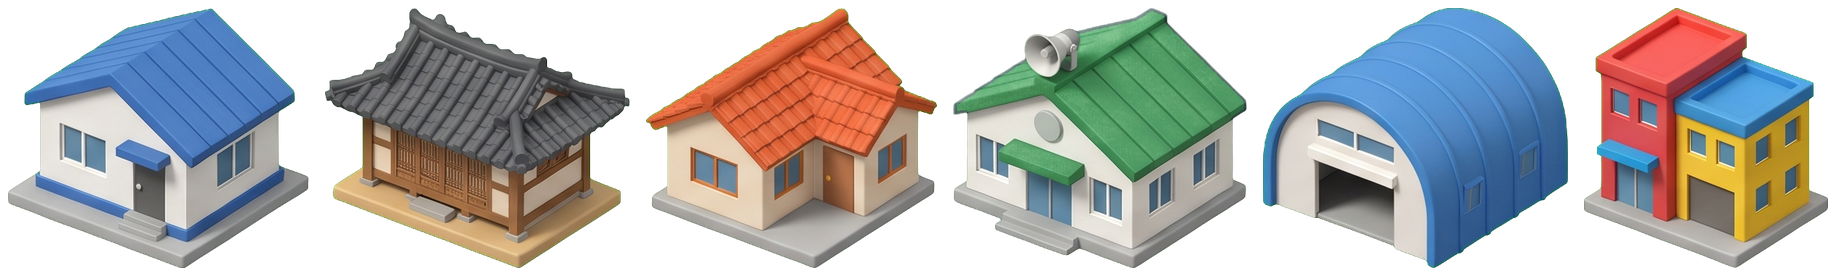
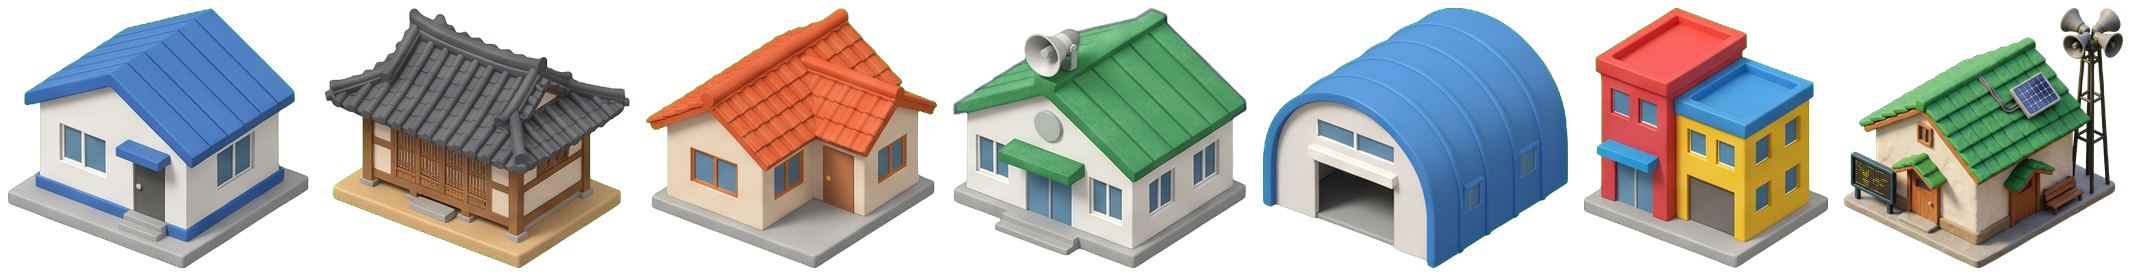
261105
261105

diff --git a/game.js b/game.js
@@ -25,13 +25,15 @@ function effect(id,x,y,size=56){const e=M.effects.effects[id];if(!e)return;const
 let soundOn=false,lastMiss=0;function sfx(id){if(!assets||!soundOn)return;if(id==='miss'){const n=Date.now();if(n-lastMiss<1500)return;lastMiss=n}assets.playSound(id)}
 
 /* ---------- 게임 전용 자산 (assets/) ---------- */
-const BOX={"residents":[[8,8,156,300],[180,8,131,300],[327,8,131,300],[474,8,135,300],[625,8,139,300],[780,8,246,300],[1042,8,144,300],[1202,8,165,300]],"buildings":[[8,8,301,260],[325,8,305,260],[646,8,291,260],[953,8,294,260],[1263,8,305,260],[1584,8,244,260]],"icons":[[12,12,198,200],[236,12,168,200],[460,12,200,126],[12,236,123,200],[236,236,200,137],[460,236,200,165],[12,460,200,170],[236,460,200,186],[460,460,200,123]],"helpers":[[8,8,165,360],[189,8,156,360],[361,8,171,360],[548,8,178,360]]};
-const SZ={"residents":[1375,316],"buildings":[1836,276],"icons":[672,672],"helpers":[734,376]}; // 시트 크기(건물·아이콘은 Higgsfield 실사 그림)
+const BOX={"residents":[[8,8,156,300],[180,8,131,300],[327,8,131,300],[474,8,135,300],[625,8,139,300],[780,8,246,300],[1042,8,144,300],[1202,8,165,300]],"buildings":[[8,8,301,260],[325,8,305,260],[646,8,291,260],[953,8,294,260],[1263,8,305,260],[1584,8,244,260],[1844,8,279,260]],"icons":[[12,12,198,200],[236,12,168,200],[460,12,200,126],[12,236,123,200],[236,236,200,137],[460,236,200,165],[12,460,200,170],[236,460,200,186],[460,460,200,123]],"helpers":[[8,8,165,360],[189,8,156,360],[361,8,171,360],[548,8,178,360]]};
+const SZ={"residents":[1375,316],"buildings":[2131,276],"icons":[672,672],"helpers":[734,376]}; // 시트 크기(건물·아이콘은 Higgsfield 실사 그림)
 const SHEET={helpers:'assets/helpers.png',residents:'assets/residents.png',buildings:'assets/buildings.png',icons:'assets/game-icons.png'};
-const RES={elder:0,vn:1,np:2,deaf:3,phone:4,mine:5,chief:6,merchant:7},BLD={house:0,old:1,mine:2,hall:3,shelter:4,center:5},GIC={multi:0,light:1,chief:2,fast:3,sand:4,buddy:5,bc:6,goods:7,buoy:8};
+const RES={elder:0,vn:1,np:2,deaf:3,phone:4,mine:5,chief:6,merchant:7},BLD={house:0,old:1,mine:2,hall:3,shelter:4,center:5},GIC={multi:0,light:1,chief:2,fast:3,sand:4,buddy:5,bc:6,goods:7,buoy:8,hall:6};
 function artSvg(sheet,i,x,y,w,h,cls=''){const b=BOX[sheet][i];return `<svg class="${cls}" x="${x}" y="${y}" width="${w}" height="${h}" viewBox="${b.join(' ')}" preserveAspectRatio="xMidYMax meet"><svg x="${b[0]}" y="${b[1]}" width="${b[2]}" height="${b[3]}" viewBox="${b.join(' ')}"><image href="${SHEET[sheet]}" width="${SZ[sheet][0]}" height="${SZ[sheet][1]}"/></svg></svg>`}
 function art(sheet,i,cls='gs-art'){const b=BOX[sheet][i];return `<svg class="${cls}" viewBox="${b.join(' ')}" preserveAspectRatio="xMidYMid meet" aria-hidden="true"><svg x="${b[0]}" y="${b[1]}" width="${b[2]}" height="${b[3]}" viewBox="${b.join(' ')}"><image href="${SHEET[sheet]}" width="${SZ[sheet][0]}" height="${SZ[sheet][1]}"/></svg></svg>`}
 function pill(x,y,txt,fs=12,anchor='middle',bg='#1f2b26',op=.74){const w=Math.round([...String(txt)].length*fs*.95+fs*.9),x0=anchor==='middle'?x-w/2:anchor==='end'?x-w:x;return `<g class="pill"><rect x="${x0}" y="${y-fs*.85}" width="${w}" height="${fs*1.55}" rx="${fs*.78}" fill="${bg}" opacity="${op}"/><text x="${x0+w/2}" y="${y+fs*.32}" text-anchor="middle" font-size="${fs}" fill="#fff">${txt}</text></g>`}
+const HCOL={saebom:'#2463b5',daon:'#d36b12'};
+function tagCol(h){return h.t==='deaf'?HCOL.saebom:h.lang==='VN'?HCOL.daon:'#1f2b26'}
 function tagOf(h){return (h.lang?(h.lang==='VN'?'베트남인':'네팔인'):'')||(h.t==='deaf'?'수어 필요':h.t==='elder'?'어르신':'')}
 function resOf(h){return h.t==='foreign'?(h.lang==='NP'?RES.np:RES.vn):RES[h.t]}
 function bldOf(h){return h.t==='mine'?BLD.mine:h.t==='elder'?BLD.old:BLD.house}
@@ -44,7 +46,7 @@ const BASE_HOUSES=[
  {id:'h1',x:170,y:165,t:'phone'},{id:'h2',x:300,y:135,t:'elder'},{id:'h3',x:430,y:175,t:'phone'},{id:'h4',x:565,y:145,t:'foreign',lang:'VN'},{id:'h5',x:700,y:170,t:'deaf'},{id:'h6',x:835,y:150,t:'phone'},
  {id:'h7',x:215,y:300,t:'elder'},{id:'h8',x:370,y:305,t:'mine'},{id:'h9',x:525,y:290,t:'phone'},{id:'h10',x:665,y:315,t:'foreign',lang:'VN'},{id:'h11',x:815,y:290,t:'elder'},{id:'h12',x:290,y:440,t:'phone'}];
 const EXTRA_HOUSES=[{id:'h13',x:110,y:250,t:'elder'},{id:'h14',x:745,y:235,t:'foreign',lang:'NP'}];
-const BASE={x:520,y:520},SHELTER={x:905,y:520},HALL={x:110,y:450,r:240};
+const BASE={x:520,y:520},SHELTER={x:905,y:520},HALL={x:110,y:450,get r(){return G&&G.owned&&G.owned.includes('hall')?360:240}};
 const HELPERS={me:{id:'jiho',name:'나',skill:'우리 집 열쇠',tag:'짐 옮기기 가능'},saebom:{id:'saebom',name:'새봄',skill:'수어 가능',tag:'청각장애인 집 빠름'},daon:{id:'daon',name:'다온',skill:'베트남어 가능',tag:'베트남어 집 빠름'}};
 const ROUNDS=[
  {n:1,title:'첫 폭우',rain:80,T:58,maxY:360,houses:'base',helpers:true,bc:1,intro:'AI 홍수 경보 시스템이 처음 가동됐어요. 그런데 경보는 스마트폰이 있고 한국어를 쓰는 주민에게만 가요.'},
@@ -56,6 +58,7 @@ const UPGRADES=[
  {id:'chief',name:'이장 전화 연락망',desc:'어르신 집에 3초 뒤 전화 경보',cost:1},
  {id:'fast',name:'AI 예측 고도화',desc:'경보가 4초 빨라짐 (이미 받는 사람만)',cost:2},
  {id:'sand',name:'우리 집 모래주머니',desc:'우리 집 짐은 자동으로 지켜짐',cost:1},
+ {id:'hall',name:'마을회관 방송 확장',desc:'방송이 더 멀리, 라운드마다 2번 (못 듣는 사람은 그대로)',cost:1},
  {id:'buddy',name:'이웃 짝꿍 제도',desc:'어르신마다 이웃 짝꿍이 직접 알림 (회의 2부터)',cost:1,late:true}];
 const VOICES1=[[RES.elder,'전화로 한 번만 알려 주면 바로 나가지.'],[RES.vn,'한국어 문자는 무슨 말인지 몰라요.'],[RES.deaf,'소리는 못 들어요. 불빛이면 돼요.'],[RES.merchant,'상인회: AI를 더 좋게 하면 모두 빨라지잖아요!']];
 const VOICES2=[[RES.elder,'전화가 와도 혼자 나가기 무서워.'],[RES.np,'네팔어 쓰는 친구도 이사 왔어요.'],['saebom','봉사단: 우리 내년엔 졸업이야. 우리 없이도 될까?']];
@@ -80,7 +83,7 @@ function drawMap(){const m=$('map');m.innerHTML=`
  <image href="assets/map-toy.jpg" x="-5" y="-107" width="1290" height="826" preserveAspectRatio="none"/>
  
  <g id="world" transform="translate(40,0) scale(1.2)">
- <g id="hall"><circle cx="${HALL.x}" cy="${HALL.y}" r="${HALL.r}" fill="#f3cf7214" stroke="#f3cf7288" stroke-dasharray="8 8"/>${artSvg('buildings',BLD.hall,HALL.x-46,HALL.y-62,92,88)}${pill(HALL.x,HALL.y+42,'마을회관',12)}</g>
+ <g id="hall"><circle cx="${HALL.x}" cy="${HALL.y}" r="${HALL.r}" fill="#f3cf7214" stroke="#f3cf7288" stroke-dasharray="8 8"/>${G&&G.owned.includes('hall')?artSvg('buildings',6,HALL.x-60,HALL.y-84,120,108):artSvg('buildings',BLD.hall,HALL.x-46,HALL.y-62,92,88)}${pill(HALL.x,HALL.y+42,'마을회관',12)}</g>
  <g>${artSvg('buildings',BLD.shelter,SHELTER.x-62,SHELTER.y-78,124,104)}${pill(SHELTER.x,SHELTER.y+40,'대피소',12)}<text id="shelterCount" x="${SHELTER.x}" y="${SHELTER.y-50}" text-anchor="middle" font-size="16" font-weight="700" fill="#294b40" stroke="#fff9e7" stroke-width="4" paint-order="stroke"></text></g>
  <g>${artSvg('buildings',BLD.center,BASE.x-120,BASE.y-70,70,72)}${pill(BASE.x-85,BASE.y+16,'청소년센터',12)}</g>
  <rect id="flood" x="-34" y="0" width="1068" height="78" fill="#8a7b62" opacity=".72"/>
@@ -95,15 +98,15 @@ function drawHouses(){$('houses').innerHTML=R.houses.map(h=>`<g class="house" id
  <rect class="base" x="-46" y="-50" width="92" height="80" fill="transparent"/>
  ${artSvg('buildings',bldOf(h),-46,-58,92,82,'bimg')}
  ${`<g class="rimg" ><ellipse cx="40" cy="23" rx="11" ry="3.2" fill="#000" opacity=".35"/>${artSvg('residents',resOf(h),24,-32,34,55)}</g>`}
- ${tagOf(h)?pill(41,-41,tagOf(h),11):''}
+ ${tagOf(h)?pill(41,-41,tagOf(h),11,'middle',tagCol(h),h.t==='deaf'||h.lang==='VN'?.95:.74):''}
  <g class="status" transform="translate(0,33)"></g>
  ${h.t==='mine'?`<g class="goods">${artSvg('icons',GIC.goods,-64,-20,30,30)}</g>`:''}
  </g>`).join('')}
 function setStatus(h,txt,color='#294b40',buoy=false){const g=document.querySelector(`#g-${h.id} .status`);if(!txt){g.innerHTML='';return}const fill={'#5a8c65':'#2f6b45','#bf7865':'#b23f2c','#9a7417':'#8a6512','#6b7075':'#4a4f54'}[color]||color,fs=12,w=Math.round([...txt].length*fs*.95+fs*1.1+(buoy?16:0)),x0=-w/2;g.innerHTML=`<rect x="${x0}" y="-10" width="${w}" height="19" rx="9.5" fill="${fill}" opacity=".9"/>`+(buoy?artSvg('icons',GIC.buoy,x0+3,-8,15,15):'')+`<text x="${buoy?8:0}" y="4" text-anchor="middle" font-size="${fs}" fill="#fff">${txt}</text>`}
 function floatTxt(x,y,txt,color='#5a8c65'){const g=document.createElementNS(NS,'text');g.setAttribute('x',x);g.setAttribute('y',y);g.setAttribute('text-anchor','middle');g.setAttribute('font-size','18');g.setAttribute('font-weight','700');g.setAttribute('fill',color);g.setAttribute('stroke','#fff9e7');g.setAttribute('stroke-width','4');g.setAttribute('paint-order','stroke');g.classList.add('float');g.textContent=txt;$('fx').appendChild(g);setTimeout(()=>g.remove(),1300)}
-function drawHelpers(){$('helpersG').innerHTML=Object.entries(R.helpers).map(([k,hp])=>`<g class="helper" id="hp-${k}" data-helper="${k}" transform="translate(${hp.x},${hp.y})"><ellipse cx="0" cy="0" rx="11" ry="3.4" fill="#000" opacity=".35"/><g class="body" >${walkSvg(helperChar(k),0,0,.62,'down',1)}</g>${pill(0,14,k==='me'?M.characters[helperChar(k)].name+'(나)':HELPERS[k].name,11,'middle','#294b40',.82)}<g class="hstat" transform="translate(0,-86)"></g></g>`).join('')}
+function drawHelpers(){if(G&&!ROUNDS[G.round].helpers){$('helpersG').innerHTML='';return}$('helpersG').innerHTML=Object.entries(R.helpers).map(([k,hp])=>`<g class="helper" id="hp-${k}" data-helper="${k}" transform="translate(${hp.x},${hp.y})"><ellipse cx="0" cy="0" rx="11" ry="3.4" fill="#000" opacity=".35"/><g class="body" >${walkSvg(helperChar(k),0,0,.62,'down',1)}</g>${pill(0,14,k==='me'?M.characters[helperChar(k)].name+'(나)':HELPERS[k].name,11,'middle',HCOL[k]||'#294b40',.9)}<g class="hstat" transform="translate(0,-86)"></g></g>`).join('')}
 function setWalk(k,dir,frame){const el=document.querySelector(`#hp-${k} .spr`);if(!el)return;if(el.dataset.real){const r=realFlip(el.dataset.real,dir,frame,+el.dataset.f);el.dataset.f=r.f;el.firstElementChild.setAttribute('transform',r.t);return}const c=M.characters[helperChar(k)],row=c.directions.indexOf(dir);el.setAttribute('viewBox',`${frame*96} ${row*128} 96 128`)}
-function renderDock(){const r=ROUNDS[G.round];$('dock').innerHTML=Object.entries(HELPERS).map(([k,h])=>{const hp=R.helpers[k],cid=helperChar(k),nm=k==='me'?M.characters[cid].name+'(나)':h.name;const st=!r.helpers?'졸업했어요':hp.task?hp.task.label:'대기 중 · 끌어서 보내기';return `<button class="hcard ${!r.helpers?'off':hp.task?'busy':''}" aria-pressed="${sel===k}" data-hcard="${k}" aria-label="${nm}, ${h.skill}, ${st}">${portrait(cid,hp.task?'explaining':'neutral')}<span><b>${nm}</b><small>${h.skill} · ${h.tag}</small><span class="st">${st}</span></span></button>`}).join('')+`<button class="ee-button bc" id="bcBtn" ${R.bcLeft<1||R.t<R.alertT||!r?'disabled':''}>${art('icons',GIC.bc,'gs-art" style="width:34px;height:30px')}마을방송<small>${R.bcLeft}회 · 회관 근처</small></button>`;
+function renderDock(){const r=ROUNDS[G.round];$('dock').innerHTML=Object.entries(HELPERS).map(([k,h])=>{const hp=R.helpers[k],cid=helperChar(k),nm=k==='me'?M.characters[cid].name+'(나)':h.name;const st=!r.helpers?'졸업했어요':hp.task?hp.task.label:'대기 중 · 끌어서 보내기';return `<button class="hcard ${!r.helpers?'off':hp.task?'busy':''}"${HCOL[k]?` style="border-color:${HCOL[k]}"`:''} aria-pressed="${sel===k}" data-hcard="${k}" aria-label="${nm}, ${h.skill}, ${st}">${portrait(cid,hp.task?'explaining':'neutral')}<span><b>${nm}</b><small${HCOL[k]?` style="color:${HCOL[k]};font-weight:700"`:''}>${h.skill} · ${h.tag}</small><span class="st">${st}</span></span></button>`}).join('')+`<button class="ee-button bc" id="bcBtn" ${R.bcLeft<1||R.t<R.alertT||!r?'disabled':''}>${art('icons',GIC.bc,'gs-art" style="width:34px;height:30px')}마을방송<small>${R.bcLeft}회 · 회관 근처</small></button>`;
  document.querySelectorAll('[data-hcard]').forEach(bindHelperDrag);$('bcBtn').onclick=broadcast}
 function hudIcons(){$('safePill').innerHTML=`${icon('person',18)}<span id="safeTxt">대피 0/0</span>`;$('helpBtn').innerHTML=icon('help',24);setSoundBtn()}
 function setSoundBtn(){$('soundBtn').innerHTML=icon(soundOn?'volume':'music',24);$('soundBtn').setAttribute('aria-pressed',soundOn);$('soundBtn').setAttribute('aria-label',soundOn?'소리 끄기':'소리 켜기(배경음악·효과음)')}
@@ -115,7 +118,7 @@ function bgmTick(){if(!actx)return;if(actx.state==='suspended'&&soundOn)actx.res
  const s=actx.createBufferSource(),g=actx.createGain();s.buffer=bgmBuf[want];s.loop=true;g.gain.value=0;g.gain.setTargetAtTime(want==='rain'?.3:.24,t,.5);s.connect(g).connect(actx.destination);s.start();bgmNode={s,g}}
 
 /* ---------- 라운드 ---------- */
-function startRound(){const r=ROUNDS[G.round];R={...r,t:0,houses:houseList(r),helpers:{},bcLeft:r.bc,alertT:G.owned.includes('fast')?1:5,events:[],goodsSaved:0,dots:[],evacuated:0,rescueT:r.T-8,rescued:false,rsec:-1};
+function startRound(){const r=ROUNDS[G.round];R={...r,t:0,houses:houseList(r),helpers:{},bcLeft:r.bc+(G.owned.includes('hall')?1:0),alertT:G.owned.includes('fast')?1:5,events:[],goodsSaved:0,dots:[],evacuated:0,rescueT:r.T-8,rescued:false,rsec:-1};
  for(const h of R.houses){h.warned=null;h.flooded=false;h.safe=false;h.ft=floodTime(h.y)}
  Object.keys(HELPERS).forEach((k,i)=>R.helpers[k]={x:BASE.x-50+i*50,y:BASE.y-20,task:null,dir:'down'});
  drawMap();drawHouses();drawHelpers();renderDock();updateHud();
@@ -128,14 +131,14 @@ function countdown(done){const el=document.createElement('div');el.className='gs
 function updateGoods(){$('goodsPill').innerHTML=`${art('icons',GIC.goods,'gs-art" style="width:20px;height:18px')}<span>짐 ${G.goods}</span>`}
 const REMOTE=['방송','이장'];
 function warn(h,via){if(h.warned!=null||h.flooded)return;h.warned=R.t;h.via=via;document.getElementById('g-'+h.id).classList.add('lit');
- if(G.round>=1&&h.t==='elder'&&REMOTE.includes(via)){h.hesitate=true;setStatus(h,'망설임…','#bf7865');floatTxt(h.x,h.y-96,'혼자는 무서워','#bf7865');if(!R.hesToast){R.hesToast=true;logIt('돌발: 망설이는 어르신');setTimeout(()=>{if(!paused)toast('돌발 상황! 어르신이 혼자 나가기 무서워 망설여요. 누군가 직접 가야 해요.',3600)},400)}}
+ if(G.round>=1&&h.t==='elder'&&REMOTE.includes(via)){h.hesitate=true;setStatus(h,'망설임…','#bf7865');floatTxt(h.x,h.y-96,'혼자는 무서워','#bf7865');if(!R.hesToast){R.hesToast=true;logIt('돌발: 망설이는 어르신');setTimeout(()=>{if(!paused)toast(ROUNDS[G.round].helpers?'돌발 상황! 어르신이 혼자 나가기 무서워 망설여요. 누군가 직접 가야 해요.':'어르신이 혼자 나가기 무서워 망설여요. 이번엔 직접 갈 봉사단이 없어요…',3600)},400)}}
  else{setStatus(h,'준비 중','#9a7417');h.leaveAt=R.t+TYPES[h.t].prep}
  if(G.owned.includes('buddy')&&h.t==='phone'){const e=R.houses.filter(o=>o.t==='elder'&&!o.buddy&&(o.warned==null||o.hesitate)&&Math.hypot(o.x-h.x,o.y-h.y)<220).sort((a,b)=>Math.hypot(a.x-h.x,a.y-h.y)-Math.hypot(b.x-h.x,b.y-h.y))[0];if(e){e.buddy=true;R.events.push({at:R.t+2,fn:()=>{visit(e,'짝꿍');floatTxt(e.x,e.y-70,'짝꿍')}})}}}
 function visit(h,by){if(h.flooded||h.safe)return;if(h.hesitate){h.hesitate=false;h.leaveAt=R.t+1;h.via=by;setStatus(h,'함께 출발','#5a8c65')}else warn(h,by)}
 function systemAlerts(){for(const h of R.houses){if(h.t==='phone'||h.t==='mine')warn(h,'AI');if(h.t==='foreign'&&G.owned.includes('multi'))warn(h,'다국어');if(h.t==='deaf'&&G.owned.includes('light'))warn(h,'불빛')}
  if(G.owned.includes('chief'))R.events.push({at:R.t+3,fn:()=>R.houses.filter(h=>h.t==='elder').forEach(h=>{if(h.warned==null&&!h.flooded){warn(h,'이장');floatTxt(h.x,h.y-70,'전화')}})});
  for(const h of R.houses)if(h.warned!=null)floatTxt(h.x,h.y-70,'경보!');sfx('collect');for(const h of R.houses)if(h.warned==null&&h.t!=='mine')setStatus(h,'경보 못 받음','#6b7075');
- const left=R.houses.filter(h=>h.warned==null);toast(`AI 경보 발송! 받지 못한 집 ${left.length}곳 · 회색 '경보 못 받음' 집으로 봉사단을 보내요`,3600);renderDock()}
+ const left=R.houses.filter(h=>h.warned==null);toast(ROUNDS[G.round].helpers?`AI 경보 발송! 받지 못한 집 ${left.length}곳 · 회색 '경보 못 받음' 집으로 봉사단을 보내요`:`AI 경보 발송! 받지 못한 집 ${left.length}곳 · 봉사단 없이 시스템만으로 닿을까요? 지켜봐요`,3600);renderDock()}
 function broadcast(){if(paused||R.bcLeft<1||R.t<R.alertT)return;R.bcLeft--;logIt('마을방송');sfx('tap');effect('clue',HALL.x,HALL.y-70,64);const ring=document.createElementNS(NS,'circle');ring.setAttribute('cx',HALL.x);ring.setAttribute('cy',HALL.y);ring.setAttribute('r',10);ring.setAttribute('fill','none');ring.setAttribute('stroke','#f3cf72');ring.setAttribute('stroke-width','6');$('fx').appendChild(ring);let rr=10;const iv=setInterval(()=>{rr+=reduced?HALL.r:12;ring.setAttribute('r',rr);ring.setAttribute('opacity',Math.max(0,1-rr/HALL.r));if(rr>=HALL.r){clearInterval(iv);ring.remove()}},16);
  for(const h of R.houses){if(Math.hypot(h.x-HALL.x,h.y-HALL.y)>HALL.r||h.warned!=null)continue;if(h.t==='deaf'){floatTxt(h.x,h.y-70,'못 들음','#bf7865');continue}if(h.t==='foreign'&&!G.owned.includes('multi')){floatTxt(h.x,h.y-70,'무슨 말?','#bf7865');continue}warn(h,'방송');floatTxt(h.x,h.y-70,'방송')}renderDock()}
 function sendHelper(k,houseId){const hp=R.helpers[k],h=R.houses.find(x=>x.id===houseId);if(!h||hp.task||!ROUNDS[G.round].helpers)return;
@@ -175,24 +178,43 @@ function stepHelpers(){for(const [k,hp] of Object.entries(R.helpers)){const tk=h
   if(tk.house.flooded&&tk.mode==='warn'){hp.task=null;el.querySelector('.hstat').innerHTML='';effect('retry',tk.house.x,tk.house.y-30);toast('물이 먼저 들어왔어요…');setWalk(k,'down',1);renderDock();continue}
   if(p>=1){el.querySelector('.hstat').innerHTML='';const h=tk.house;if(tk.mode==='goods'){h.goodsDone=true;G.goods++;R.goodsSaved++;updateGoods();floatTxt(h.x,h.y-70,'짐 지킴!','#9a7417');document.querySelector(`#g-${h.id} .goods`)?.remove();sfx('paper')}else{const was=h.hesitate;visit(h,HELPERS[k].name);effect('correct',h.x,h.y-40);floatTxt(h.x,h.y-80,was?'같이 가요!':tk.work<=1?'통했다!':'전달!');sfx('collect')}hp.task=null;setWalk(k,'down',1);renderDock()}}
  el.setAttribute('transform',`translate(${hp.x},${hp.y})`)}}
-function stepHouses(){const wy=waterY(R.t);$('flood').setAttribute('height',wy);$('floodEdge').setAttribute('y',wy-6);
- for(const h of R.houses){const dz=!h.safe&&!h.flooded&&h.t!=='mine'&&(h.leaveAt==null||h.leaveAt>h.ft)&&h.ft-R.t<10&&h.ft-R.t>0;if(dz!==!!h.dz){h.dz=dz;document.getElementById('g-'+h.id).classList.toggle('danger',dz);if(dz&&!G.dangerTip){G.dangerTip=true;toast('빨간 점선이 깜빡이는 집은 곧 물이 닿아요! 서둘러요.',3000)}}
+function stepHouses(){const wy=waterY(fc());$('flood').setAttribute('height',wy);$('floodEdge').setAttribute('y',wy-6);
+ for(const h of R.houses){const dz=!h.safe&&!h.flooded&&h.t!=='mine'&&(h.leaveAt==null||h.leaveAt-(R.hold||0)>h.ft)&&h.ft-fc()<10&&h.ft-fc()>0;if(dz!==!!h.dz){h.dz=dz;document.getElementById('g-'+h.id).classList.toggle('danger',dz);if(dz&&!G.dangerTip){G.dangerTip=true;toast(ROUNDS[G.round].helpers?'빨간 점선이 깜빡이는 집은 곧 물이 닿아요! 서둘러요.':'빨간 점선이 깜빡이는 집은 곧 물이 닿아요.',3000)}}
   if(h.safe||h.flooded)continue;if(h.leaveAt!=null&&R.t>=h.leaveAt){h.safe=true;setStatus(h,'대피 ✓','#5a8c65');document.getElementById('g-'+h.id).classList.add('left');R.dots.push({x:h.x+40,y:h.y,r:routeTo(h.x+40,h.y,SHELTER.x,SHELTER.y),t0:R.t,dur:Math.hypot(SHELTER.x-h.x,SHELTER.y-h.y)/(h.t==='elder'?110:170),res:resOf(h)});continue}
   if(wy>=h.y-12){h.flooded=true;h.dz=false;document.getElementById('g-'+h.id).classList.remove('danger');setStatus(h,'구조 대기','#bf7865',true);document.getElementById('g-'+h.id).classList.add('flooded');sfx('miss');if(h.t==='mine'&&!h.goodsDone&&!h.sand)floatTxt(h.x,h.y-70,'짐 잠김','#bf7865')}}
  if(R.t>=R.alertT&&!R.alerted){R.alerted=true;systemAlerts()}
- if(R.t>=R.rescueT&&!R.rescued)rescueArrive();
+ if(fc()>=R.rescueT&&!R.rescued)rescueArrive();
+ if(R.alerted&&G.round===0&&!G.tutDone&&!R.tut&&!R.tutStarted){R.tutStarted=true;startTutorial()}
  $('dots').innerHTML=R.dots.map(d=>{const p=Math.min(1,(R.t-d.t0)/d.dur);if(p>=1){if(!d.arr){d.arr=true;R.evacuated++}return ''}const {x,y}=along(d.r,p),bob=reduced?0:Math.abs(Math.sin(R.t*10))*3;return `<g ><ellipse cx="${x}" cy="${y}" rx="9" ry="2.8" fill="#000" opacity=".3"/>${artSvg('residents',d.res,x-12,y-44-bob,24,44)}</g>`}).join('');
  $('shelterCount').textContent=R.evacuated?`${R.evacuated}명 도착`:''}
-function rescueHud(){const g=$('rescue119');if(!g||R.rescueT==null)return;const left=Math.max(0,Math.ceil(R.rescueT-R.t)),key=R.rescued?-2:left;if(key===R.rsec)return;R.rsec=key;
+function rescueHud(){const g=$('rescue119');if(!g||R.rescueT==null)return;const left=Math.max(0,Math.ceil(R.rescueT-fc())),key=R.rescued?-2:left;if(key===R.rsec)return;R.rsec=key;
  g.innerHTML=R.t<R.alertT?'':pill(1262,700,R.rescued?'🚒 119 구조대 도착 · 구조 대기 주민 구조 중':`🚒 119 구조대 · 읍내 12km${R.slow?' · 길 잠김':''} · 도착까지 ${left}초`,14,'end',R.rescued?'#2b5f8a':'#7a2d22',.9)}
 function rescueArrive(){if(R.rescued)return;R.rescued=true;const fl=R.houses.filter(h=>h.flooded&&h.t!=='mine');fl.forEach(h=>setStatus(h,'119 구조','#2b5f8a',true));logIt('119 구조대 도착');toast(fl.length?`🚒 119 구조대 도착! 구조 대기 주민 ${fl.length}명을 보트로 구해요. 그동안 물속에서 기다렸어요.`:'🚒 119 구조대 도착! 다행히 기다리는 주민이 없어요.',3600);rescueHud()}
-function updateHud(){rescueHud();const p=Math.max(0,1-R.t/R.T);$('timerBar').style.width=(p*100)+'%';$('timerWrap').setAttribute('aria-valuenow',Math.round(p*100));$('timerWrap').classList.toggle('low',p<.25);const total=R.houses.filter(h=>h.t!=='mine').length,safe=R.houses.filter(h=>h.t!=='mine'&&h.safe).length;const s=$('safeTxt');if(s)s.textContent=`대피 ${safe}/${total}`}
-function loop(now){if(paused)return;const dt=Math.max(0,Math.min(.1,(now-last)/1000));last=now;R.t+=dt*SPEED;
+
+/* ---------- 1라운드 튜토리얼: 경보 직후 물이 멈추고, 시범 → 직접 해 보기 ---------- */
+function coach(html,btns=''){let c=$('coach');if(!c){c=document.createElement('div');c.id='coach';c.className='gs-coach';document.body.appendChild(c)}c.innerHTML=`${portrait('robot','explaining')}<div><p>${html}</p><div class="row">${btns}<button class="ee-button secondary sm" id="tutSkip">튜토리얼 건너뛰기</button></div></div>`;$('tutSkip').onclick=tutEnd;const n=$('tutNext');if(n)n.onclick=()=>{R.tut.go=true}}
+function hl(sel,on=true){document.querySelectorAll('.tut-hl').forEach(e=>{if(!on||!sel)e.classList.remove('tut-hl')});if(on&&sel)document.querySelectorAll(sel).forEach(e=>e.classList.add('tut-hl'))}
+function startTutorial(){R.tut={step:0,go:false};R.tutHold=true;sfx('door');
+ coach('<b>잠깐! 물이 멈췄어요.</b> 회색 <b>\'경보 못 받음\'</b> 표시가 붙은 집은 AI 경보를 받지 못한 집이에요. 이 집들은 봉사단이 <b>직접 달려가서</b> 알려 줘야 해요.','<button class="ee-button sm" id="tutNext">다음 ▶</button>');
+ hl('.house:not(.lit)')}
+function demoDrag(k,hid,done){const card=document.querySelector(`[data-hcard="${k}"]`),tg=document.querySelector(`#g-${hid} .base`);if(!card||!tg){done();return}const a=card.getBoundingClientRect(),b=tg.getBoundingClientRect(),g=document.createElement('div');g.className='gs-hand';g.innerHTML=portrait(helperChar(k),'happy').replace('gs-portrait','gs-portrait" style="width:56px;height:56px;')+'<span>👆</span>';document.body.appendChild(g);
+ g.style.left=(a.left+a.width/2)+'px';g.style.top=(a.top+a.height/2)+'px';requestAnimationFrame(()=>requestAnimationFrame(()=>{g.style.left=(b.left+b.width/2)+'px';g.style.top=(b.top+b.height/2)+'px'}));setTimeout(()=>{g.remove();done()},1500)}
+function tutTick(){const T=R.tut;if(!T||G.round!==0)return;
+ if(T.step===0&&T.go){T.step=1;T.go=false;hl(null,false);const h=R.houses.find(x=>x.id==='h4');hl('[data-hcard="daon"], #g-h4');coach('<b>이렇게 해요!</b> 다온이 카드를 <span style="color:#d36b12;font-weight:700">베트남인</span> 집으로 끌어다 놓아 볼게요. 다온이는 베트남어를 할 줄 알아서 <b>1초 만에</b> 전달해요.');
+  if(R.helpers.daon.task||!h||h.warned!=null){T.step=3;return}demoDrag('daon','h4',()=>{sendHelper('daon','h4');T.step=2})}
+ else if(T.step===2){const h=R.houses.find(x=>x.id==='h4');if(h&&h.warned!=null){T.step=3;coach('<b>통했어요!</b> 경보를 받은 주민은 <b>준비 중</b> → <b>대피 ✓</b> 순서로 대피소까지 걸어가요. 물이 집에 닿기 전에 떠나면 대피 성공이에요.','<button class="ee-button sm" id="tutNext">다음 ▶</button>')}}
+ else if(T.step===3&&T.go){T.step=4;T.go=false;const h5=R.houses.find(x=>x.id==='h5');if(!h5||h5.warned!=null||R.helpers.saebom.task){T.step=5;T.go=true;return}hl('[data-hcard="saebom"], #g-h5');coach('<b>이제 직접 해 봐요.</b> <span style="color:#2463b5;font-weight:700">새봄이</span> 카드를 <span style="color:#2463b5;font-weight:700">\'수어 필요\'</span> 집으로 끌어다 놓으세요. (카드를 누르고 집을 눌러도 돼요)')}
+ else if(T.step===4){if(Object.values(R.helpers).some(q=>q.task&&q.task.house&&q.task.house.id!=='h4')){T.step=5;T.go=false;hl(null,false);coach('<b>잘했어요!</b> 남은 회색 집에도 봉사단을 보내요. <b>빨간 점선</b>이 깜빡이는 집은 곧 물이 닿아요. 이제 물이 다시 차오르기 시작해요!','<button class="ee-button sm" id="tutNext">시작 ▶</button>')}}
+ else if(T.step===5&&T.go)tutEnd()}
+function tutEnd(){hl(null,false);$('coach')?.remove();if(R&&R.tut){R.tut=null;R.tutHold=false;toast('물이 다시 차오르기 시작했어요!',2200)}if(G){G.tutDone=true;save()}}
+function fc(){return R.t-(R.hold||0)}
+function updateHud(){rescueHud();const p=Math.max(0,1-fc()/R.T);$('timerBar').style.width=(p*100)+'%';$('timerWrap').setAttribute('aria-valuenow',Math.round(p*100));$('timerWrap').classList.toggle('low',p<.25);const total=R.houses.filter(h=>h.t!=='mine').length,safe=R.houses.filter(h=>h.t!=='mine'&&h.safe).length;const s=$('safeTxt');if(s)s.textContent=`대피 ${safe}/${total}`}
+function loop(now){if(paused)return;const dt=Math.max(0,Math.min(.1,(now-last)/1000));last=now;R.t+=dt*SPEED;if(R.tutHold)R.hold=(R.hold||0)+dt*SPEED;
  R.events=R.events.filter(e=>{if(R.t>=e.at){e.fn();return false}return true});
- stepHelpers();stepHouses();updateHud();
+ stepHelpers();stepHouses();updateHud();tutTick();
  if(R.t>=R.alertT&&$('bcBtn').disabled&&R.bcLeft>0)renderDock();
  const pending=R.houses.some(h=>!h.safe&&!h.flooded&&h.ft<R.T),busy=Object.values(R.helpers).some(h=>h.task);
- if(R.t>=R.T||(!pending&&!busy&&R.t>R.alertT+1&&R.houses.every(h=>h.safe||h.flooded||h.y>R.maxY))){finishRound();return}
+ if(fc()>=R.T||(!R.tut&&!pending&&!busy&&R.t>R.alertT+1&&R.houses.every(h=>h.safe||h.flooded||h.y>R.maxY))){finishRound();return}
  raf=requestAnimationFrame(loop)}
 
 /* ---------- 끌기 · 누르기 ---------- */
@@ -205,11 +227,11 @@ function bindHelperDrag(card){const k=card.dataset.hcard;
  card.onpointerup=ev=>{card.onpointermove=card.onpointerup=null;ghost?.remove();hot&&document.getElementById('g-'+hot.id)?.classList.remove('hot');if(moved){const h=houseAt(ev.clientX,ev.clientY);if(h)sendHelper(k,h.id);else toast('집 위에 놓아 주세요.')}else toggleSel(k)}}}
 function toggleSel(k){if(paused||R.helpers[k].task)return;sel=sel===k?null:k;renderDock();if(sel){toast(`${k==='me'?'나를':HELPERS[k].name+'을'} 보낼 집을 누르세요.`);document.querySelector(`#g-${R.houses.find(h=>h.warned==null&&!h.flooded)?.id}`)?.focus?.()}}
 function bindMap(){$('map').addEventListener('keydown',e=>{if(paused||(e.key!=='Enter'&&e.key!==' '))return;const hs=e.target.closest('[data-house]');if(!hs)return;e.preventDefault();if(sel){sendHelper(sel,hs.dataset.house);sel=null;renderDock()}else toast('먼저 아래에서 봉사단 카드를 고르세요(Enter).')});$('map').addEventListener('pointerdown',e=>{if(paused)return;const hg=e.target.closest('[data-helper]');if(hg&&!R.helpers[hg.dataset.helper].task){const card=document.querySelector(`[data-hcard="${hg.dataset.helper}"]`);card&&card.onpointerdown&&card.onpointerdown(e);return}
- const hs=e.target.closest('[data-house]');if(hs&&sel){sendHelper(sel,hs.dataset.house);sel=null;renderDock();return}if(hs){const h=R.houses.find(x=>x.id===hs.dataset.house);toast(`${TYPES[h.t].name}${h.lang?' ('+(h.lang==='VN'?'베트남어':'네팔어')+')':''} · ${h.safe?'대피 완료':h.flooded?'구조 대기':h.hesitate?'망설이는 중 · 누군가 직접 가야 해요':h.warned!=null?'준비 중':'경보 못 받음'}`)}})}
+ const hs=e.target.closest('[data-house]');if(hs&&sel){sendHelper(sel,hs.dataset.house);sel=null;renderDock();return}if(hs){const h=R.houses.find(x=>x.id===hs.dataset.house);toast(`${TYPES[h.t].name}${h.lang?' ('+(h.lang==='VN'?'베트남어':'네팔어')+')':''} · ${h.safe?'대피 완료':h.flooded?'구조 대기':h.hesitate?'망설이는 중 · '+(ROUNDS[G.round].helpers?'누군가 직접 가야 해요':'직접 갈 사람이 없어요')+'':h.warned!=null?'준비 중':'경보 못 받음'}`)}})}
 
 /* ---------- 라운드 결과 ---------- */
-function peekMap(){$('overlay').hidden=true;setInert(false);const b=document.createElement('button');b.className='ee-button gs-back';b.textContent='결과로 돌아가기';document.body.appendChild(b);toast('빨간 테두리 집에는 물이 먼저 닿았어요. 누가 사는 집인지 살펴봐요.',4000);b.focus({preventScroll:true});b.onclick=()=>{b.remove();$('overlay').hidden=false;setInert(true);$('seeMap')?.focus({preventScroll:true})}}
-function finishRound(){paused=true;cancelAnimationFrame(raf);for(const h of R.houses){if(!h.safe&&!h.flooded&&h.y<=R.maxY+12)h.flooded=true}
+function peekMap(){$('overlay').hidden=true;setInert(false);const nx=$('nextR').textContent,b=document.createElement('div');b.className='gs-peek';b.innerHTML=`<p>빨간 테두리 집에 물이 먼저 닿았어요. 누가 사는 집인지 살펴봐요.</p><div class="row"><button class="ee-button secondary" id="pkBack">결과 다시 보기</button><button class="ee-button" id="pkNext">${nx}</button></div>`;document.body.appendChild(b);$('pkBack').onclick=()=>{b.remove();$('overlay').hidden=false;setInert(true);$('seeMap')?.focus({preventScroll:true})};$('pkNext').onclick=()=>{b.remove();$('overlay').hidden=false;setInert(true);$('nextR').click()};$('pkNext').focus({preventScroll:true})}
+function finishRound(){paused=true;cancelAnimationFrame(raf);const r1=$('rescue119');if(r1)r1.innerHTML='';for(const h of R.houses){if(!h.safe&&!h.flooded&&h.y<=R.maxY+12)h.flooded=true}
  const list=R.houses.filter(h=>h.t!=='mine'),byType={};for(const h of list)if(!h.safe)document.getElementById('g-'+h.id)?.classList.add('late');for(const h of list){byType[h.t]=byType[h.t]||{s:0,n:0};byType[h.t].n++;if(h.safe)byType[h.t].s++}
  const safe=list.filter(h=>h.safe).length;const kept=R.goodsSaved>0||(G.owned.includes('sand')&&R.houses.some(h=>h.t==='mine'));G.results[G.round]={round:R.n,safe,total:list.length,byType,goods:R.goodsSaved,kept,owned:[...G.owned]};const waitN=list.length-safe;
  const missed=Object.entries(byType).filter(([t,v])=>v.s<v.n).map(([t])=>TYPES[t].name),all=safe===list.length;if(all)sfx('win');
@@ -242,7 +264,7 @@ function ending(){const [r1,r2,r3]=G.results,rate=r=>Math.round(r.safe/r.total*1
 function setInert(on){const w=document.querySelector('.gs-wrap');if(w){w.inert=on;if(on)w.setAttribute('aria-hidden','true');else w.removeAttribute('aria-hidden')}}
 function show(html){$('card').innerHTML=html;$('overlay').hidden=false;setInert(true);$('card').scrollTop=0;const f=$('card').querySelector('button:not([disabled]),input');if(f&&matchMedia('(hover:hover)').matches)f.focus({preventScroll:true})}
 function hide(){$('overlay').hidden=true;setInert(false)}
-function roundIntro(){const r=ROUNDS[G.round];R={...r,t:0,houses:houseList(r),helpers:{},bcLeft:r.bc,alertT:5,events:[],dots:[],evacuated:0};drawMap();drawHouses();Object.keys(HELPERS).forEach((k,i)=>R.helpers[k]={x:BASE.x-50+i*50,y:BASE.y-20,task:null});drawHelpers();renderDock();
+function roundIntro(){const r=ROUNDS[G.round];R={...r,t:0,houses:houseList(r),helpers:{},bcLeft:r.bc+(G.owned.includes('hall')?1:0),alertT:5,events:[],dots:[],evacuated:0};drawMap();drawHouses();Object.keys(HELPERS).forEach((k,i)=>R.helpers[k]={x:BASE.x-50+i*50,y:BASE.y-20,task:null});drawHelpers();renderDock();
  $('roundChip').textContent=`${r.n}라운드 · ${r.title}`;$('rainPill').textContent=`시간당 ${r.rain}mm`;
  const team=['me','saebom','daon'].map(k=>portrait(helperChar(k))).join('');
  show(`<span class="kicker">${r.n}라운드 · 시간당 ${r.rain}mm</span><h2>${r.title}</h2>${robotSay(r.intro,r.n===3?'worried':'explaining')}${r.n===1?`<div class="grid3"><div><span class="facerow">${team}</span>봉사단 카드를 경보 못 받은 집에 <b>끌어다 놓기</b> (카드 누르고 집 누르기도 돼요)</div><div>${art('icons',GIC.buoy)}물이 차기 전에 주민이 <b>떠나야</b> 대피 성공</div><div>${art('icons',GIC.bc)}마을방송은 회관 근처만 · 못 듣는 사람도 있어요</div></div><p class="sub">새봄이는 청각장애인 집에서, 다온이는 베트남어를 쓰는 집에서 훨씬 빨라요. <b>다른 친구가 가도 전달은 되지만 오래 걸려요.</b> 우리 집 짐(가족의 생계)을 지키면 <b>다음 회의 예산 +1</b>. 119 구조대는 읍내(12km)에서 와서 <b>늦게</b> 도착해요.</p>`:r.n===3?`<div class="grid3"><div><span class="facerow gray">${team}</span>봉사단 없음</div><div>${art('icons',GIC.light)}설치한 시스템 ${G.owned.length}개</div><div>${art('icons',GIC.bc)}지켜보며 방송만 할 수 있어요</div></div>`:`<p class="sub">설치한 시스템: ${G.owned.map(id=>UPGRADES.find(u=>u.id===id).name).join(' · ')}</p>`}<div class="row"><button class="ee-button" id="go">탐험 시작 ▶</button></div>`);
@@ -264,7 +286,7 @@ function clearSave(){try{localStorage.removeItem(STORE_KEY)}catch(e){}}
 function confirmClear(back){show(`<h2>이 기기의 기록을 지울까요?</h2>${robotSay('학번·이름과 작성한 생각 정리가 이 기기에서 모두 지워져요. 다음 친구가 이 태블릿을 쓸 때 눌러 주세요. PDF를 저장했는지 먼저 확인하세요.','worried')}<div class="row"><button class="ee-button secondary" id="noC">돌아가기</button><button class="ee-button" id="yesC">지우고 처음으로</button></div>`);$('noC').onclick=back;$('yesC').onclick=()=>{clearSave();G=null;sfx('tap');startScreen()}}
 function resume(){if(G.stage==='case')return caseScreen();if(G.stage==='ending'||G.results.length>=3)return ending();if(G.stage==='meeting')return meeting();G.logs[G.round]=[];roundIntro()}
 function replay(){show(`<h2>다른 선택으로 다시 할까요?</h2>${robotSay('1라운드부터 다시 시작해요. 지금 기록은 지워져요. 남기고 싶다면 먼저 생각 정리에서 PDF로 저장하세요.','worried')}<div class="row"><button class="ee-button secondary" id="noR">돌아가기</button><button class="ee-button" id="yesR">다시 시작</button></div>`);$('noR').onclick=ending;$('yesR').onclick=()=>{G=newGame(G.sid,G.name,G.me);save();roundIntro()}}
-function help(){if(!R||!$('overlay').hidden)return;const wasRunning=!paused&&R.t<R.T;paused=true;show(`<h2>잠깐 멈춤</h2>${robotSay('봉사단 카드를 집 위로 끌어다 놓거나, 카드를 누른 뒤 집을 눌러요. 물이 집에 닿기 전에 주민이 떠나야 해요. 집을 누르면 누가 사는지 보여요. 빨간 점선이 깜빡이는 집은 곧 물이 닿아요.','explaining')}<div class="row"><button class="ee-button" id="resume">계속하기 ▶</button></div>`);$('resume').onclick=()=>{hide();if(wasRunning){paused=false;last=performance.now();raf=requestAnimationFrame(loop)}}}
+function help(){if(!R||!$('overlay').hidden)return;const wasRunning=!paused&&R.t<R.T;paused=true;show(`<h2>잠깐 멈춤</h2>${robotSay(ROUNDS[G.round].helpers?'봉사단 카드를 집 위로 끌어다 놓거나, 카드를 누른 뒤 집을 눌러요. 물이 집에 닿기 전에 주민이 떠나야 해요. 집을 누르면 누가 사는지 보여요. 빨간 점선이 깜빡이는 집은 곧 물이 닿아요.':'봉사단은 졸업해서 이번 라운드에는 아무도 달려갈 수 없어요. 우리가 회의에서 남긴 시스템이 모두에게 닿는지 <b>지켜보는</b> 라운드예요. 할 수 있는 건 <b>마을방송</b>뿐이에요(회관 근처만). 집을 누르면 누가 사는지 보여요.','explaining')}<div class="row"><button class="ee-button" id="resume">계속하기 ▶</button></div>`);$('resume').onclick=()=>{hide();if(wasRunning){paused=false;last=performance.now();raf=requestAnimationFrame(loop)}}}
 
 /* ---------- 생각 정리 · 사례 찾기 ---------- */
 const KEYWORDS=['재난문자 외국인','재난 경보 청각장애인','재난 취약계층 대피','AI 홍수 예보','침수 반지하','디지털 소외 재난'];

diff --git a/game.css b/game.css
@@ -151,3 +151,19 @@ body.game-solidarity{background:var(--ee-paper);overscroll-behavior:none;-webkit
 .game-solidarity svg#map text.float{stroke-width:3px;font-size:16px}
 
 .game-solidarity .ee-button.bc small{white-space:nowrap;font-size:12px}
+
+/* 튜토리얼 안내 */
+.game-solidarity .gs-coach{position:fixed;left:50%;bottom:128px;transform:translateX(-50%);z-index:170;display:flex;gap:12px;align-items:flex-start;width:min(720px,94vw);background:#fff9e7;border:3px solid #294b40;border-radius:8px;padding:10px 14px;box-shadow:0 8px 24px #0005}
+.game-solidarity .gs-coach .gs-portrait{width:56px;height:56px}
+.game-solidarity .gs-coach p{margin:0 0 8px;font-size:16px;line-height:1.5}
+.game-solidarity .gs-coach .row{display:flex;gap:8px;justify-content:flex-end;margin:0}
+.game-solidarity .ee-button.sm{font-size:14px;padding:6px 12px;min-height:0}
+.game-solidarity .tut-hl{outline:4px solid #f3cf72;outline-offset:3px;animation:gs-tut 1s ease-in-out infinite alternate}
+.game-solidarity .house.tut-hl{outline:none}.game-solidarity .house.tut-hl .ring{opacity:1;stroke:#f3b52a;stroke-width:6}
+@keyframes gs-tut{to{outline-color:#f3cf7255}}
+.game-solidarity .gs-hand{position:fixed;z-index:175;transform:translate(-30%,-30%);transition:left 1.2s ease-in-out,top 1.2s ease-in-out;pointer-events:none;filter:drop-shadow(0 6px 10px #0006)}
+.game-solidarity .gs-hand span{position:absolute;right:-16px;bottom:-18px;font-size:34px}
+/* 결과 지도 보기 */
+.game-solidarity .gs-peek{position:fixed;left:50%;top:55%;transform:translate(-50%,-50%);z-index:150;background:#fff9e7f2;border:3px solid #294b40;border-radius:8px;padding:12px 16px;box-shadow:0 10px 30px #0006;text-align:center;width:min(520px,92vw)}
+.game-solidarity .gs-peek p{margin:0 0 10px;font-size:16px}
+.game-solidarity .gs-peek .row{justify-content:center}
